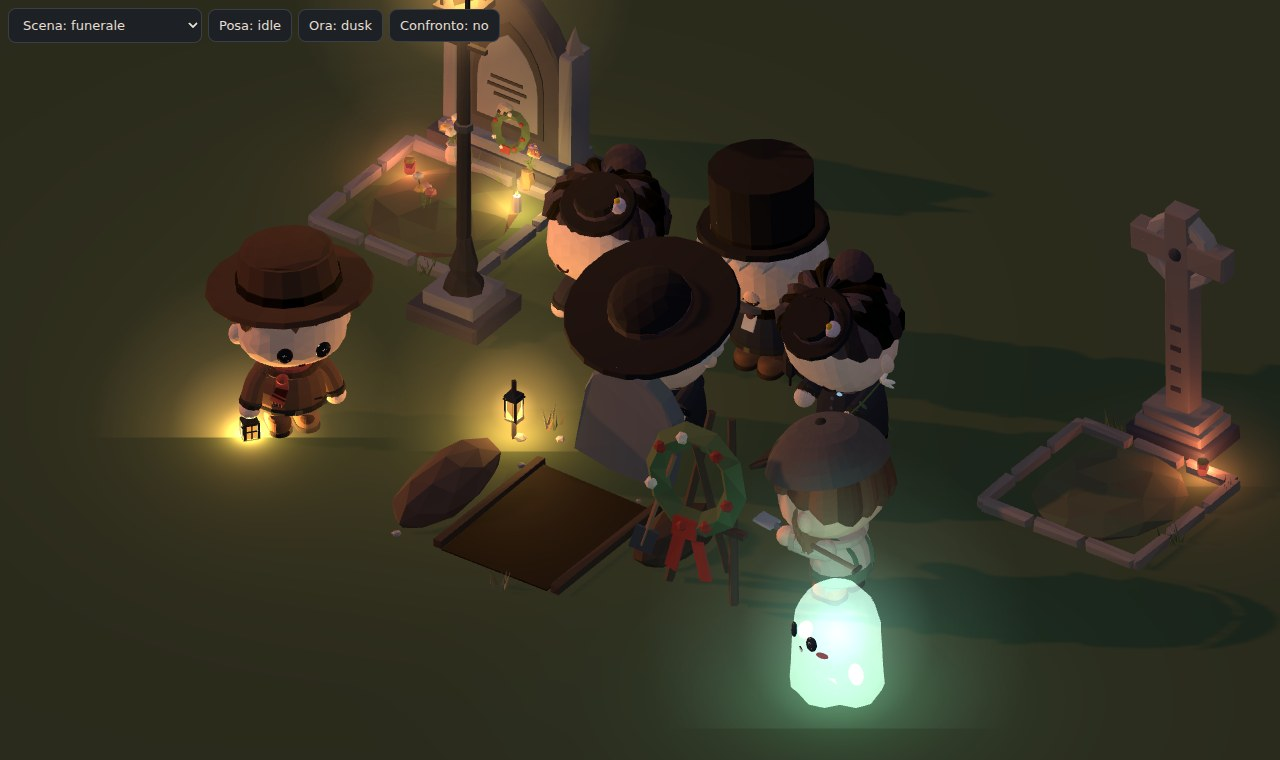
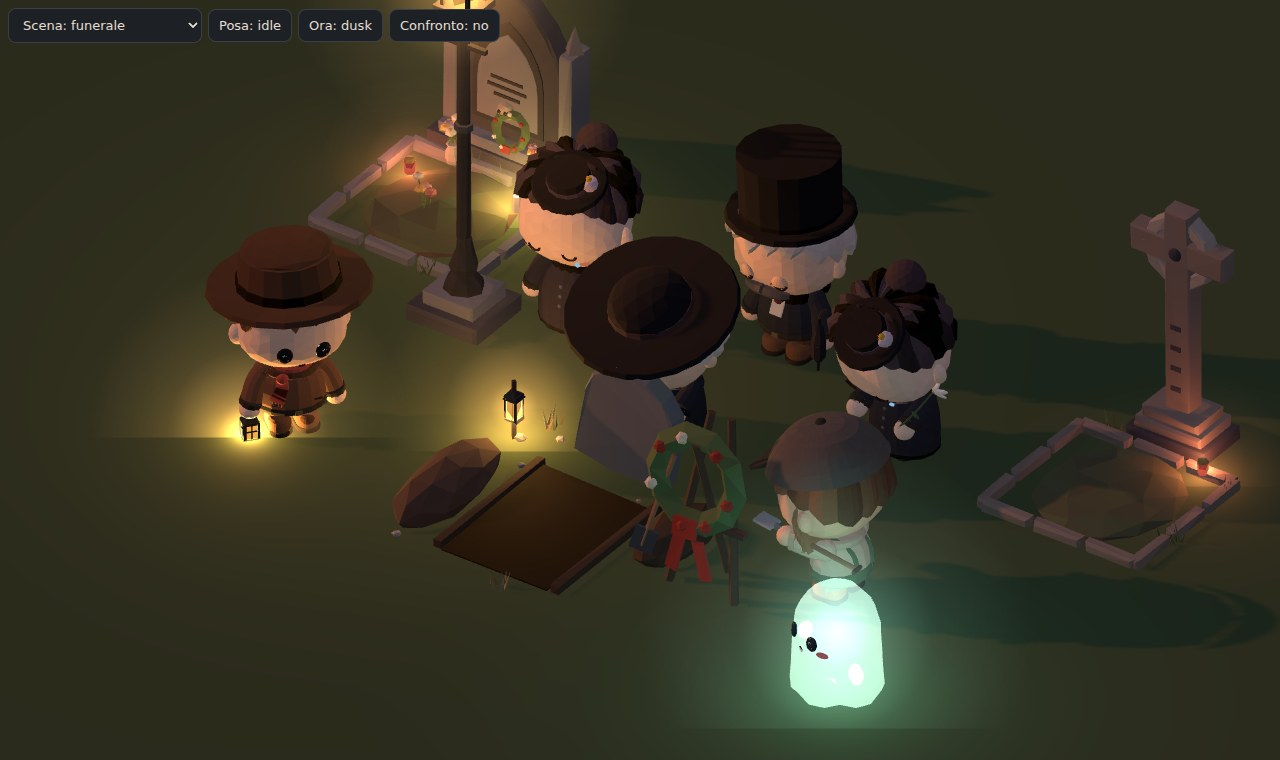
Funeral: wider half-circle and mourners keep apart while walking
Funeral spots are at least ~1.2 apart so the big heads and hats of the
v2 style no longer overlap; the procession starts spread out and a soft
separation keeps members from walking into each other on the same path.

Claude-Session: https://claude.ai/code/session_01U6u5RojYrwYjZd8sSRU7em

Changed region(s): [[0.4062, 0.1513, 0.75, 0.6053]]

diff --git a/Prototype-3d/src/view/Actors.ts b/Prototype-3d/src/view/Actors.ts
@@ -464,12 +464,13 @@ export class Actors {
   startFuneral(graveCenter: THREE.Vector3, gateCell: Cell, onDone: () => void) {
     this.endFuneral();
     const gate = cellCenter(gateCell.x, gateCell.y, [1, 1]);
+    // a semicerchio davanti alla tomba, ben distanziati: teste e cappelli grandi non si toccano
     const spots = [
-      new THREE.Vector3(0, 0, 1.6), new THREE.Vector3(-1.1, 0, 1.4), new THREE.Vector3(1.1, 0, 1.4), new THREE.Vector3(-0.5, 0, 2.2), new THREE.Vector3(0.6, 0, 2.3),
+      new THREE.Vector3(0, 0, 1.65), new THREE.Vector3(-1.25, 0, 1.75), new THREE.Vector3(1.25, 0, 1.75), new THREE.Vector3(-0.65, 0, 2.75), new THREE.Vector3(0.75, 0, 2.8),
     ];
     const kinds: CharacterKind[] = ['priest', 'mourner', 'mournerB', 'mourner', 'gravedigger'];
     const members = kinds.map((k, i) => {
-      const w = this.makeWalker(k, gate.clone().add(new THREE.Vector3((i - 2) * 0.4, 0, 0.5 + i * 0.3)), 1.4);
+      const w = this.makeWalker(k, gate.clone().add(new THREE.Vector3((i - 2) * 0.7, 0, 0.5 + i * 0.45)), 1.4);
       const dest = graveCenter.clone().add(spots[i]);
       const path = findPath(worldToCell(w.pos), worldToCell(dest), (x, y) => !this.walkable(x, y), MAP_SIZE);
       w.path = (path ?? []).slice(1).map((c) => cellCenter(c.x, c.y, [1, 1]));
@@ -494,9 +495,24 @@ export class Actors {
     this.funeral = null;
   }
 
+  /** Il corteo cammina sullo stesso sentiero: chi è troppo vicino viene scostato, così non si compenetrano. */
+  private keepApart(ms: Walker[], dt: number, min = 1) {
+    const k = Math.min(1, dt * 6);
+    for (let i = 0; i < ms.length; i++) for (let j = i + 1; j < ms.length; j++) {
+      const a = ms[i].pos, b = ms[j].pos;
+      const dx = b.x - a.x, dz = b.z - a.z, d = Math.hypot(dx, dz);
+      if (d >= min) continue;
+      const [ux, uz] = d > 1e-4 ? [dx / d, dz / d] : [Math.cos(i + j), Math.sin(i + j)];
+      const push = ((min - d) / 2) * k;
+      a.x -= ux * push; a.z -= uz * push;
+      b.x += ux * push; b.z += uz * push;
+    }
+  }
+
   private stepFuneral(dt: number) {
     const f = this.funeral!;
     f.timer += dt;
+    if (f.stage !== 'rite') this.keepApart(f.members.filter((m) => m.rig.root.visible), dt);
     if (f.stage === 'arrive') {
       let moving = false;
       for (const m of f.members) {

diff --git a/Prototype-3d/src/lab.ts b/Prototype-3d/src/lab.ts
@@ -111,9 +111,9 @@ function rebuild() {
     addStatic('p:lamp_post:0:1:001', new THREE.Vector3(-1.9, 0, -0.7));
     addStatic('p:wreath:0:1:000', new THREE.Vector3(1.25, 0, 1.0));
     place(kawaiiRig('priest'), 0, -0.35, '', 'pray', 0);
-    place(kawaiiRig('mourner'), -0.95, -0.95, '', 'idle', 0.1);
-    place(kawaiiRig('mournerB'), 0.05, -1.35, '', 'idle', 0);
-    place(kawaiiRig('mourner'), 1.0, -1.0, '', 'pray', -0.1);
+    place(kawaiiRig('mourner'), -1.25, -1.05, '', 'idle', 0.1);
+    place(kawaiiRig('mournerB'), 0.1, -1.6, '', 'idle', 0);
+    place(kawaiiRig('mourner'), 1.35, -1.1, '', 'pray', -0.1);
     place(kawaiiRig('gravedigger'), 2.0, 0.55, '', 'work', -Math.PI / 2);
     place(kawaiiRig('custode'), -2.1, 1.0, '', 'idle', 0.9);
     place(kawaiiRig('ghost'), 2.7, 1.6, '', 'idle', -0.4);
